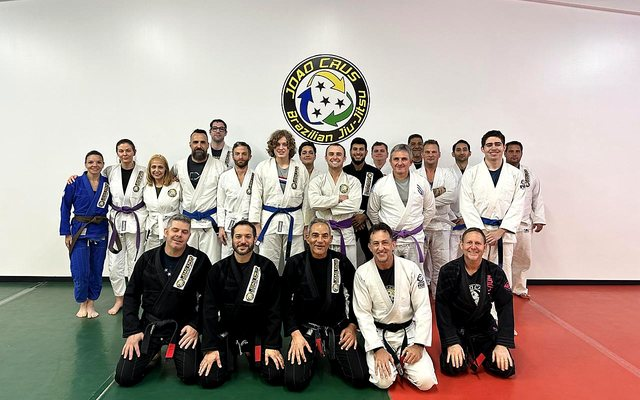
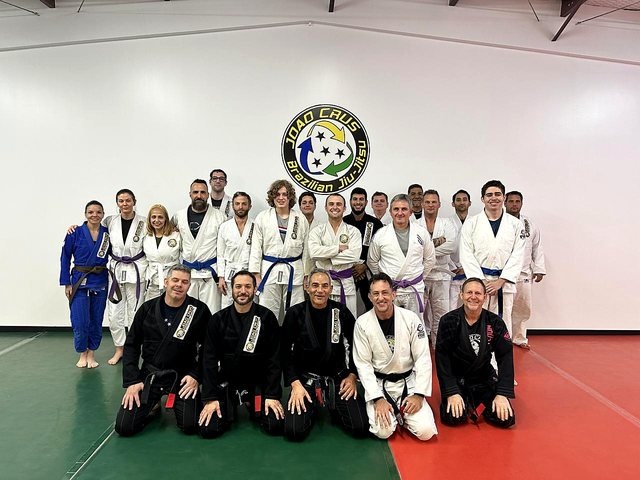
Scale campaign hero images to larger panels

diff --git a/site/assets/campaign-site.css b/site/assets/campaign-site.css
@@ -198,15 +198,17 @@ textarea {
 }
 .herogrid {
   display: grid;
-  grid-template-columns: 1.05fr 0.95fr;
+  grid-template-columns: minmax(0, 1.05fr) minmax(0, 0.95fr);
   min-height: 610px;
 }
 .herocopy {
+  min-width: 0;
   align-self: center;
   padding: 80px 42px 70px 0;
 }
 .heroimg {
   position: relative;
+  min-width: 0;
   min-height: 500px;
 }
 .heroimg img {
@@ -645,7 +647,7 @@ h3 {
   }
   .herogrid,
   .split {
-    grid-template-columns: 1fr;
+    grid-template-columns: minmax(0, 1fr);
   }
   .herocopy {
     padding: 65px 0 45px;
@@ -1009,17 +1011,22 @@ body.booking-open {
 }
 .heroimg {
   min-height: 0;
-  aspect-ratio: 16 / 9;
+  aspect-ratio: 4 / 3;
   align-self: center;
   margin: 48px 0 66px 28px;
   border: 4px solid var(--b);
   box-shadow: 9px 9px 0 var(--b);
 }
 .heroimg.home-hero {
-  aspect-ratio: 8 / 5;
+  aspect-ratio: 4 / 3;
 }
 .home-page .herocopy h1 {
   font-size: clamp(3.5rem, 6.6vw, 5.8rem);
+}
+@media (min-width: 901px) {
+  .herocopy h1 {
+    font-size: clamp(3.5rem, 6.2vw, 5.6rem);
+  }
 }
 .home-hero picture {
   display: block;
@@ -1457,6 +1464,11 @@ h1, h2 {
   .about-herogrid .about-heroimg {
     width: 100%;
     margin-left: 0;
+  }
+}
+@media (max-width: 700px) {
+  .about-herogrid h1 {
+    font-size: 3.4rem;
   }
 }
 .coaching-team {

diff --git a/site/assets/parent-guide.css b/site/assets/parent-guide.css
@@ -36,8 +36,8 @@
 /* ------------------------------------------------------------------ */
 /* Controlled display-heading wraps                                    */
 /* ------------------------------------------------------------------ */
-.pg-hero-title {
-  font-size: clamp(2.55rem, 4vw, 3.6rem);
+h1.pg-hero-title {
+  font-size: clamp(2.55rem, 3.4vw, 3rem);
 }
 .pg-hero-title > span,
 .pg-age-title > span {

diff --git a/site/campaign/index.html b/site/campaign/index.html
@@ -103,7 +103,7 @@
                 sizes="(max-width: 900px) 100vw, 47vw"
                 alt="Joao Crus BJJ students and instructors gathered at the academy"
                 width="1280"
-                height="800"
+                height="960"
                 fetchpriority="high">
             </picture>
           </div>

diff --git a/scripts/prepare_home_hero.py b/scripts/prepare_home_hero.py
@@ -10,8 +10,8 @@ from PIL import Image, ImageEnhance, ImageFilter, ImageOps
 ROOT = Path(__file__).resolve().parents[1]
 SOURCE = ROOT / "assets" / "source-images" / "joao-academy-group-original-2026-07-31.jpg"
 OUTPUT_DIR = ROOT / "site" / "assets" / "campaign-images"
-CROP = (0, 100, 1280, 900)
-SIZES = ((1280, 800, ""), (640, 400, "-640"))
+CROP = (0, 0, 1280, 960)
+SIZES = ((1280, 960, ""), (640, 480, "-640"))
 
 
 def prepare() -> Image.Image:
@@ -52,7 +52,7 @@ def main() -> None:
             subsampling="4:2:0",
         )
 
-    print("Prepared homepage hero at 1280x800 and 640x400 in WebP and JPEG")
+    print("Prepared homepage hero at 1280x960 and 640x480 in WebP and JPEG")
 
 
 if __name__ == "__main__":

diff --git a/CURRENT-DECISIONS.md b/CURRENT-DECISIONS.md
@@ -128,7 +128,8 @@ Until item 1 is resolved, **do not publish membership prices, LTV claims, saving
 - ✅ The shared site header will use a **Programs dropdown** that links directly to the age-specific Little Champions 3–7, Youth 8–12, and Teen 13–17 pages. Age-group landing pages retain the same global header and add a smaller contextual anchor bar below it for in-page navigation.
 - ✅ **Approved coach portraits (2026-07-29):** use the approved AI coach portraits in the About team grid and throughout the canonical Coaches hub. Keep Joao's real academy portrait in the About hero. Remove comparison-preview labeling because the coach portraits are approved for production.
 - ✅ **Canonical hosted review site (2026-07-29):** use one Git-connected Vercel project, `joao-crus-bjj`, with `main` as the stable production branch and pull-request preview deployments for review. Keep the `*.vercel.app` deployment blocked from indexing until forms, legal, tracking, DNS, and real-domain cutover checks are complete.
-- ✅ **Homepage hero photography (2026-07-31):** use Joao's approved real academy group photo in the homepage hero. Preserve the original source, use the optimized 8:5 derivatives, keep every person visible, and remove the former AI-concept label.
+- ✅ **Homepage hero photography (2026-07-31):** use Joao's approved real academy group photo in the homepage hero. Preserve the original source, use the optimized 4:3 derivatives, keep every person visible, and remove the former AI-concept label.
+- ✅ **Campaign hero image scale (2026-07-31):** use larger 4:3 desktop hero image panels so they visually span more of the left-side story instead of sitting as short centered 16:9 cards. Preserve each source image's safe focal treatment and retain the established mobile ratios.
 - 🟡 Programs, Schedule, and Locations will test distinct page-specific AI hero concepts in the review build. These remain labeled concepts until final photography is approved.
 - ✅ Maintain one shared schedule data source/component so every page displays the same confirmed times.
 - 🟡 Maintain a single primary conversion goal per campaign page, plus text/call as the fallback.
